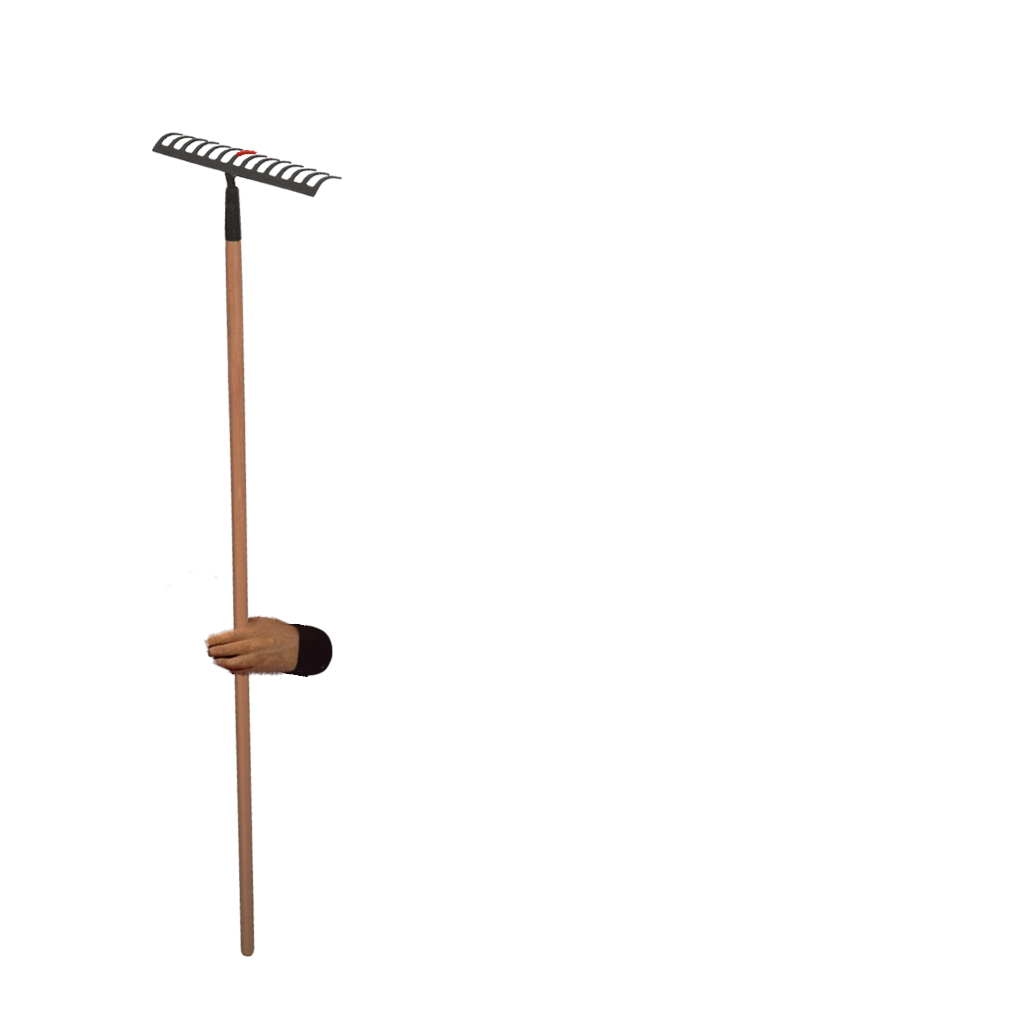
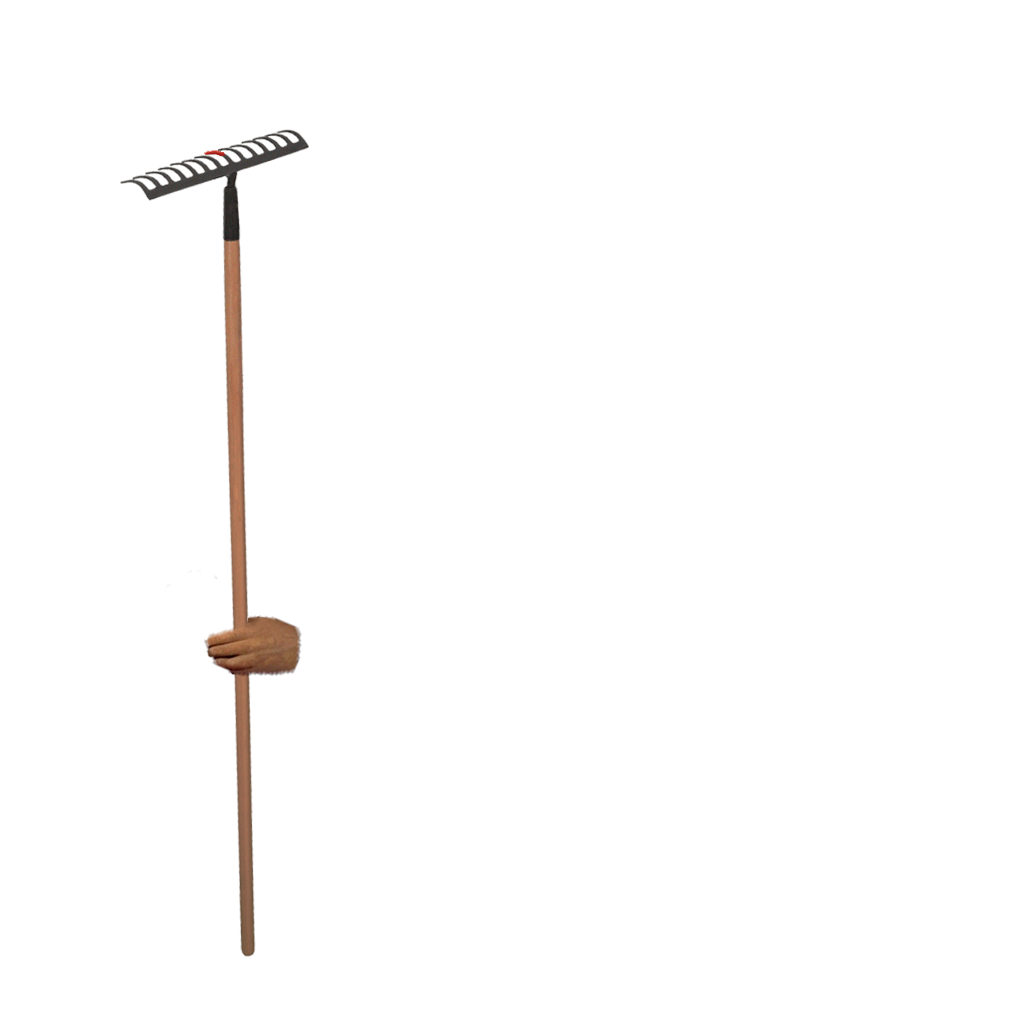
flipped rive

Changed region(s): [[0.125, 0.125, 0.3438, 0.5938], [0.2812, 0.5938, 0.3438, 0.6875]]

diff --git a/website/game.js b/website/game.js
@@ -4,7 +4,6 @@ let scenes = {
     tutorial2: false,
     ready: false,
     game: false,
-    finished: false,
 }
 
 const resetGame = () => {
@@ -274,8 +273,8 @@ function mainLoop(t) {
             // control the rotation of weapons
             let rive = curSceneDOM.querySelector('#game_rive_container');
             let greb = curSceneDOM.querySelector('#game_greb_container');
-            let rotP1 = gyro.p1.r;
-            let rotP2 = gyro.p2.r;
+            let rotP1 = gyro.p1.y;
+            let rotP2 = gyro.p2.y;
             rive.style.transform = `rotate(${rotP1}deg)`;
             greb.style.transform = `rotate(${rotP2}deg)`;
 
@@ -325,19 +324,6 @@ function mainLoop(t) {
             }
 
             break;
-
-
-
-
-
-
-            ///////////////////////////////////////////////////////////////////////////////////////////////////
-            ////                                      FINISHED SCENE                                       ////
-            ///////////////////////////////////////////////////////////////////////////////////////////////////
-        case 'finished':
-            console.log('finished scene');
-
-            break;
     }
 
 
@@ -358,7 +344,7 @@ let animationLoop;
 
 const checkForHit = (pNum) => {
     let strikeMargin = 1;
-    let strikeP1 = 39.7;
+    let strikeP1 = 43;
     let strikeP2 = -19.8;
     let forDur = 150;
     let backDur = 300;
@@ -367,7 +353,7 @@ const checkForHit = (pNum) => {
     switch (pNum) {
         case 1:
             // if you strike within a certain angle, you hit
-            if (gyro.p1.r < strikeP1 + strikeMargin && gyro.p1.r > strikeP1 - strikeMargin) {
+            if (gyro.p1.y < strikeP1 + strikeMargin && gyro.p1.y > strikeP1 - strikeMargin) {
 
                 // score +1
                 gyro.p1.score += 1;
@@ -394,7 +380,7 @@ const checkForHit = (pNum) => {
 
         case 2:
             // if you strike within a certain angle, you hit
-            if (gyro.p2.r < strikeP2 + strikeMargin && gyro.p2.r > strikeP2 - strikeMargin) {
+            if (gyro.p2.y < strikeP2 + strikeMargin && gyro.p2.y > strikeP2 - strikeMargin) {
 
                 // score +1
                 gyro.p2.score += 1;

diff --git a/website/index.html b/website/index.html
@@ -14,8 +14,6 @@
     <script src="anime.min.js" defer></script>
     <script src="serial.js" defer></script>
     <script src="game.js" defer></script>
-    <script src="script.js" defer></script>
-    <script src="anime.min.js"></script>
 </head>
 
 <body>
@@ -97,9 +95,6 @@
                     <p id="game_win_player"></p>
                     <img id="game_win_text" src="img/game_win_text.png" alt="win text">
                 </div>
-            </section>
-            <section id="finished_container">
-                <p>finished</p>
             </section>
         </div>
     </main>
